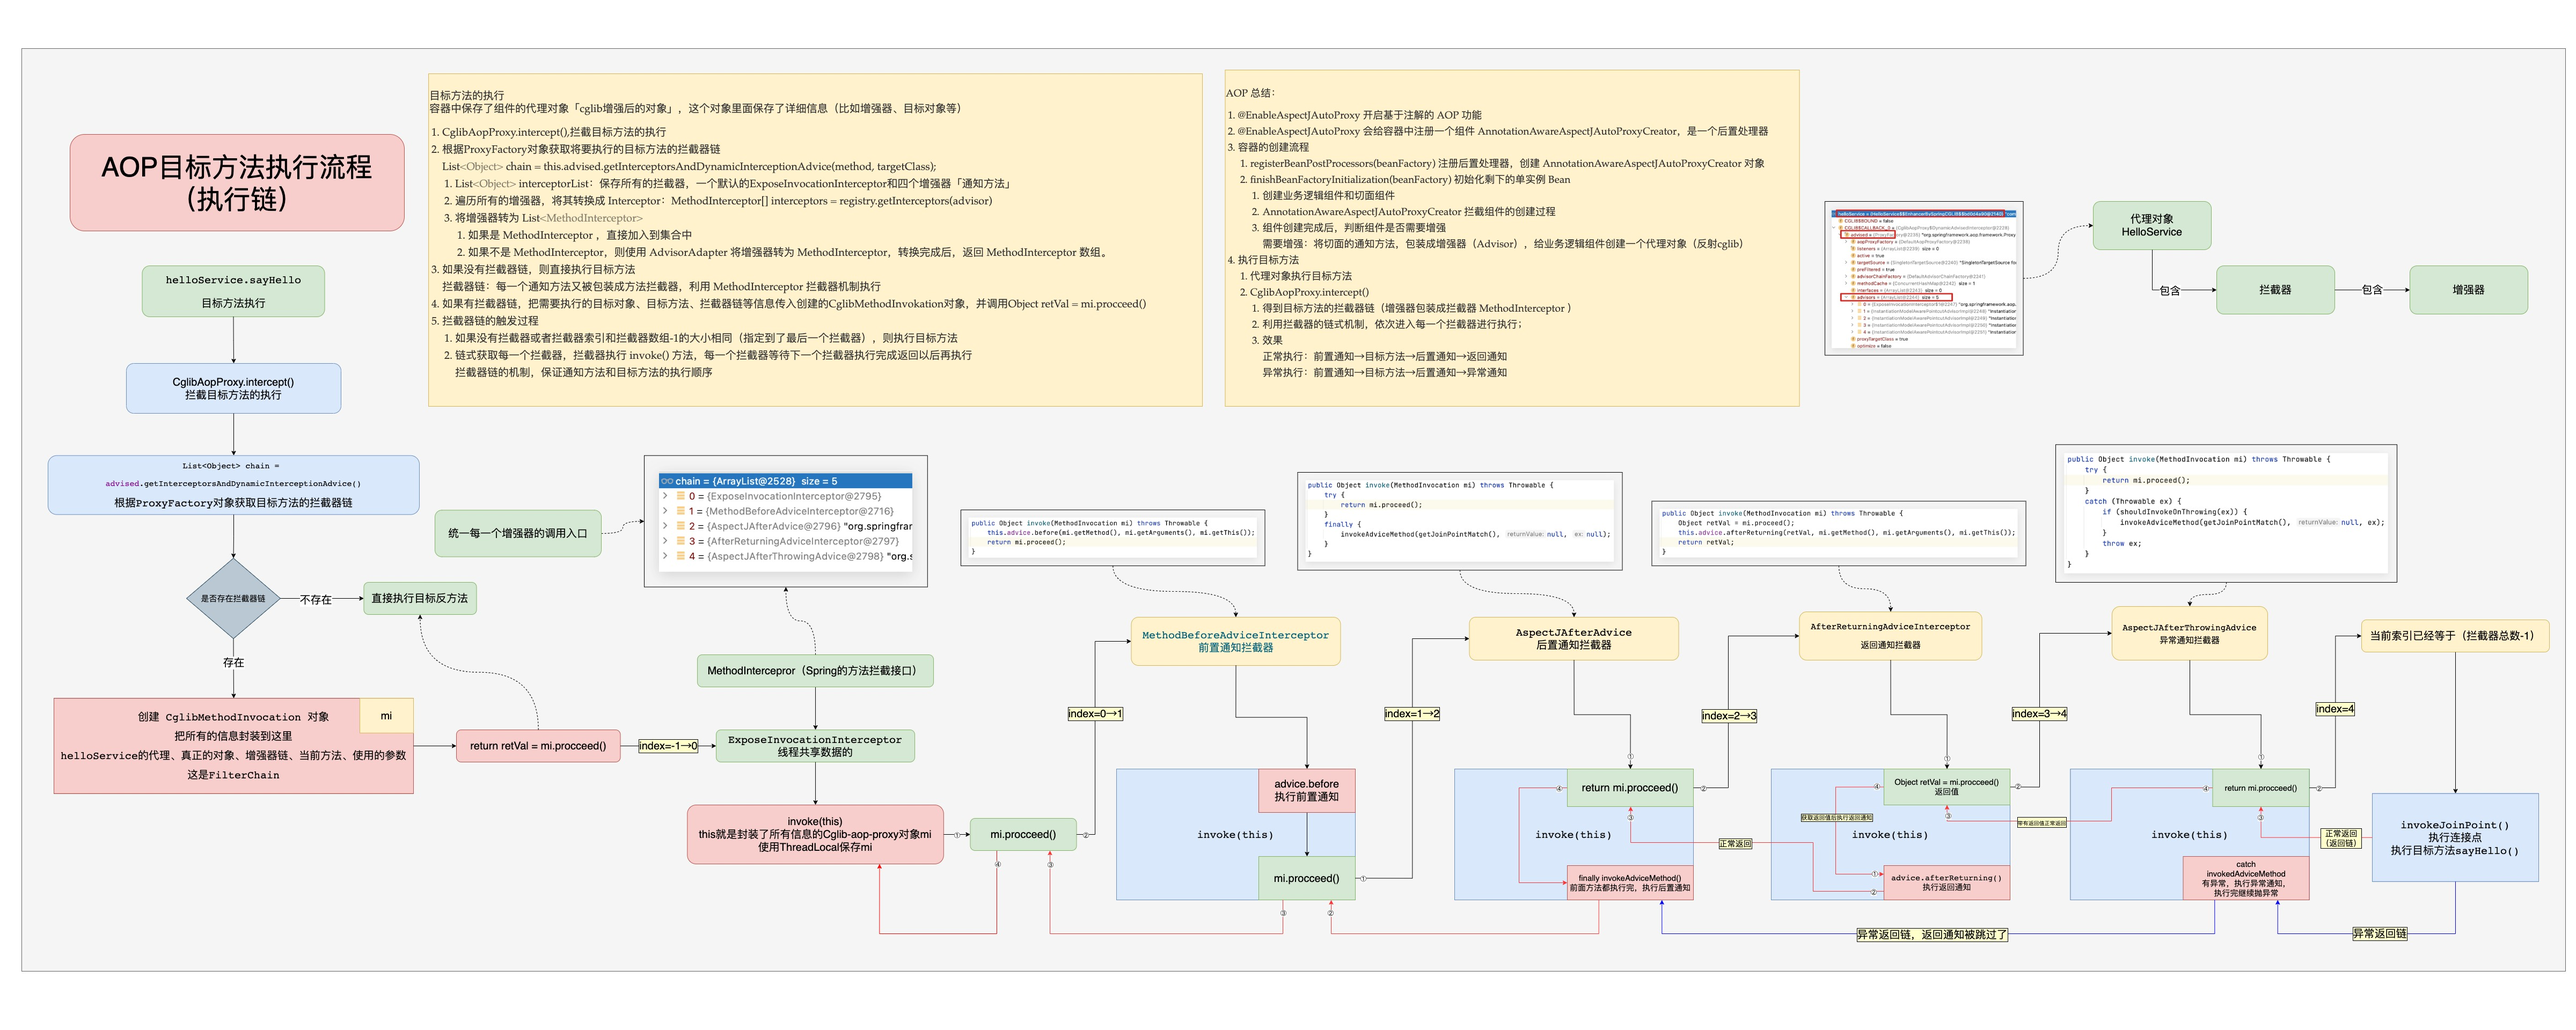
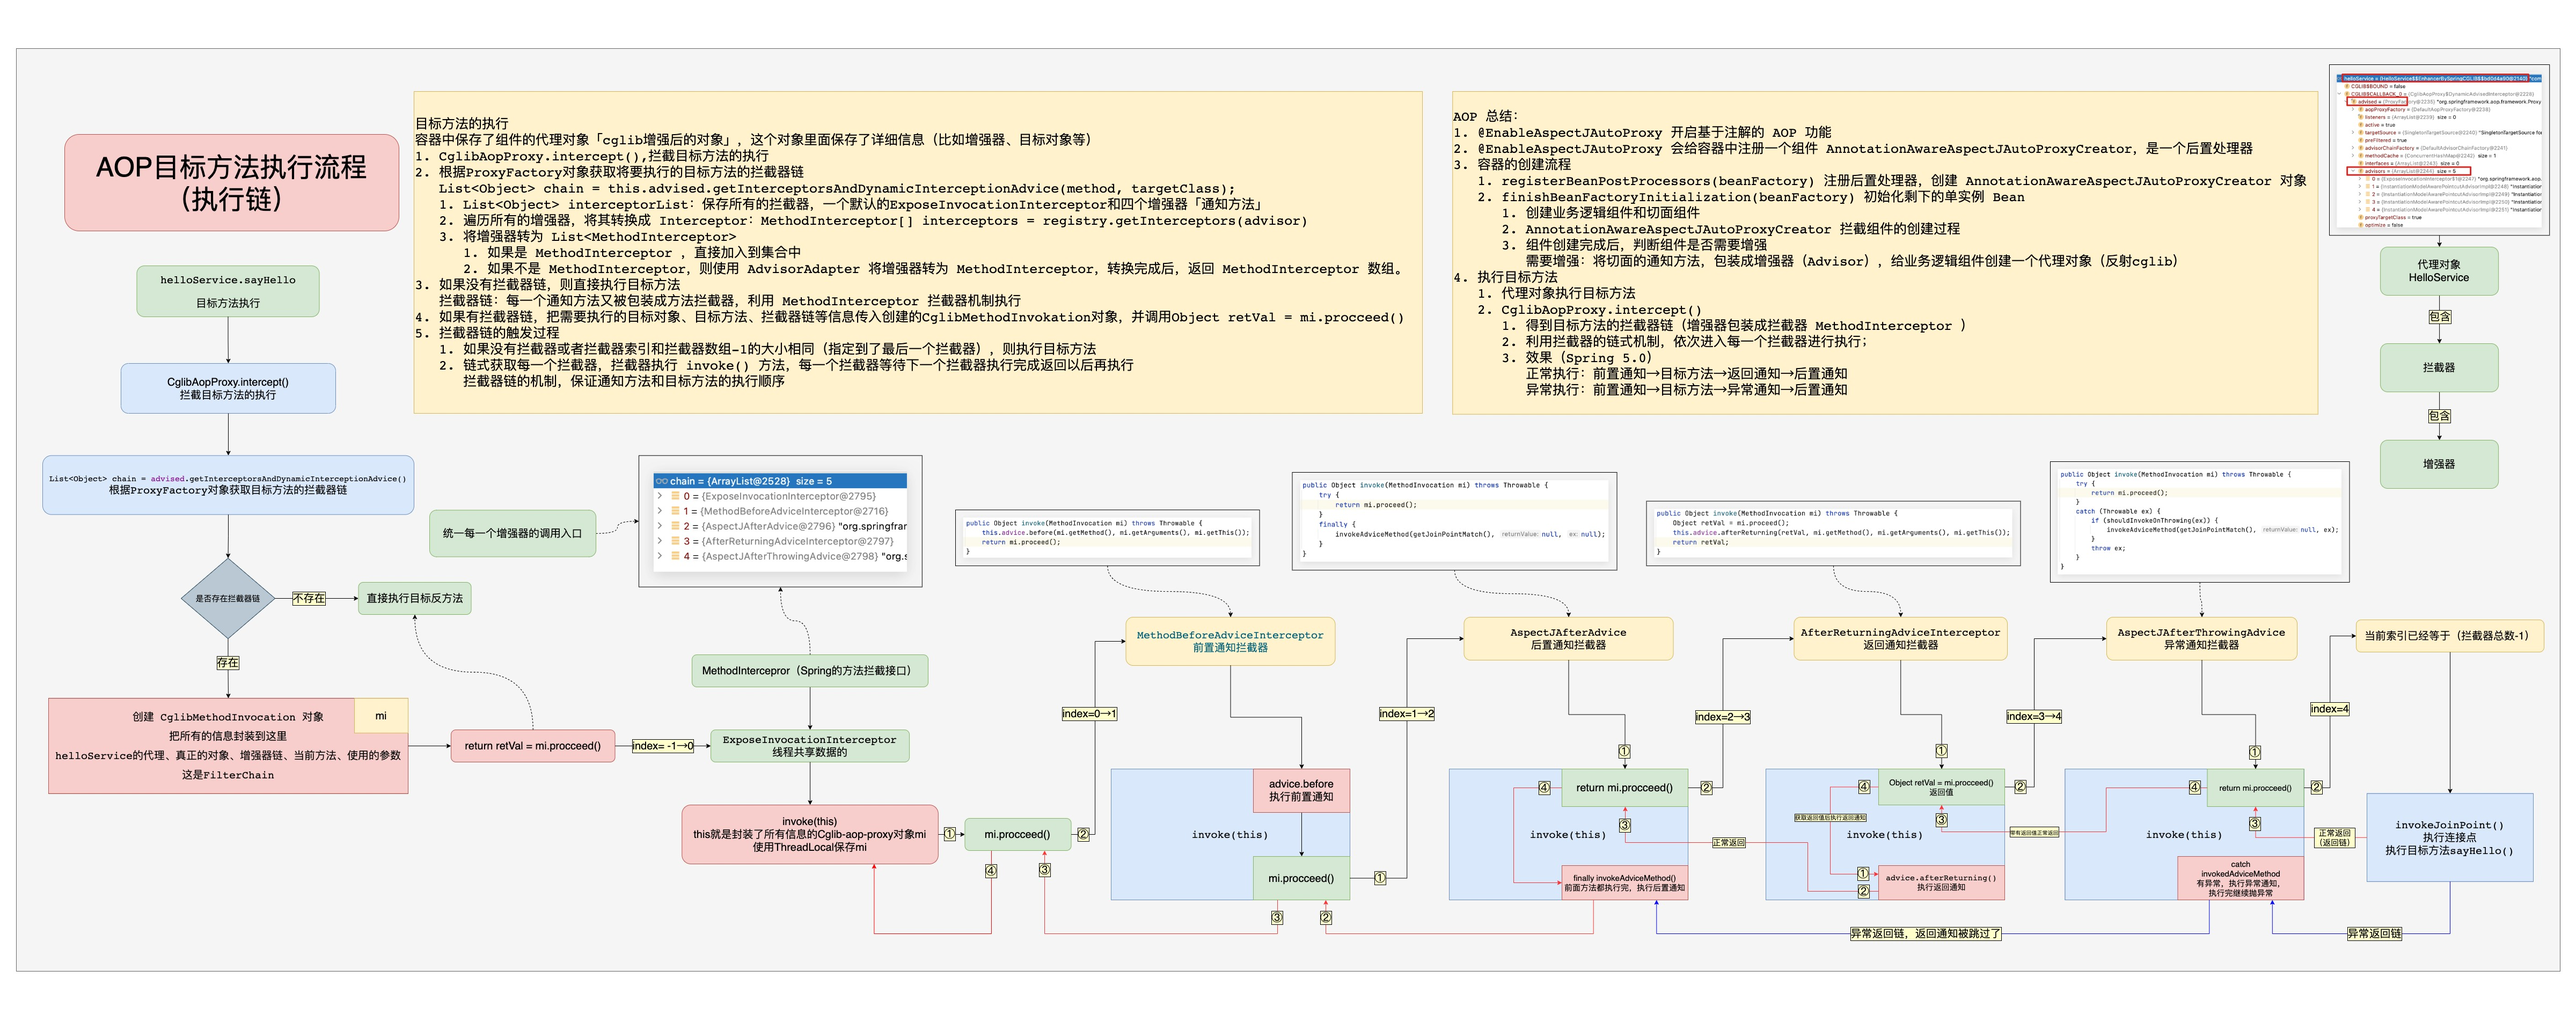
update

diff --git a/colin-source-test/src/main/java/com/colin/demo/AnnotationDemo.java b/colin-source-test/src/main/java/com/colin/demo/AnnotationDemo.java
@@ -9,6 +9,8 @@ import com.colin.config.MyConfig;
 import org.springframework.context.ApplicationContext;
 import org.springframework.context.annotation.AnnotationConfigApplicationContext;
 
+import java.util.ArrayList;
+
 /**
  * @author colin
  * @create 2021-03-17 11:34
@@ -16,18 +18,16 @@ import org.springframework.context.annotation.AnnotationConfigApplicationContext
 public class AnnotationDemo {
 
 	public static void main(String[] args) {
-
-		/*aspectTest();*/
+		aopTest();
 		/*testFactoryBean();*/
-		testCycle();
-
+		/*testCycle();*/
 	}
 
-	private static void aspectTest() {
+	private static void aopTest() {
 		ApplicationContext applicationContext = new AnnotationConfigApplicationContext(MyConfig.class);
 		HelloService helloService = applicationContext.getBean(HelloService.class);
 		// 代理对象执行目标方法
-		helloService.sayHello("小罗");
+		helloService.sayHello("colin");
 		System.out.println("==============");
 	}
 

diff --git a/colin-source-test/src/main/java/com/colin/aop/HelloService.java b/colin-source-test/src/main/java/com/colin/aop/HelloService.java
@@ -2,13 +2,15 @@ package com.colin.aop;
 
 import org.springframework.stereotype.Component;
 
+import java.util.ArrayList;
+
 /**
  * @author colin
  * @create 2021-03-23 16:51
  *
  * 切面存在的话就会返回代理对象
  */
-//@Component
+@Component
 public class HelloService {
 
 	public HelloService(){
@@ -21,7 +23,10 @@ public class HelloService {
 	public String sayHello(String name){
 		String result = "你好："+name;
 		System.out.println(result);
-		int length = name.length();
-		return result + "---" + length;
+
+		/*// 模拟异常
+		Object o1 = new ArrayList<>(10).get(11);*/
+
+		return "你好，返回通知";
 	}
 }

diff --git a/colin-source-test/src/main/java/com/colin/aop/LogAspect.java b/colin-source-test/src/main/java/com/colin/aop/LogAspect.java
@@ -10,6 +10,7 @@ import java.util.Arrays;
  * @author colin
  * @create 2021-03-23 16:48
  *
+ * spring 5.0
  * 正常执行顺序：前置通知-->目标方法-->返回通知-->后置通知
  * 异常执行顺序：前置通知-->目标方法-->异常通知-->后置通知
  *
@@ -26,8 +27,8 @@ import java.util.Arrays;
  * 「@Aspect」：表明为切面类
  * 切面类也要注册进容器中「@Component」
  */
-//@Component
-//@Aspect
+@Component
+@Aspect
 public class LogAspect {
 
 	public LogAspect() {

diff --git a/colin-source-test/src/main/java/com/colin/config/AopOpenConfig.java b/colin-source-test/src/main/java/com/colin/config/AopOpenConfig.java
@@ -9,7 +9,7 @@ import org.springframework.context.annotation.EnableAspectJAutoProxy;
  *
  * EnableAspectJAutoProxy ：开启基于注解的aop
  */
-/*@EnableAspectJAutoProxy
-@Configuration*/
+@EnableAspectJAutoProxy
+@Configuration
 public class AopOpenConfig {
 }

diff --git a/colin-source-test/src/main/java/com/colin/bean/Hello.java b/colin-source-test/src/main/java/com/colin/bean/Hello.java
@@ -6,6 +6,6 @@ import org.springframework.stereotype.Component;
  * @author colin
  * @create 2021-03-19 09:03
  */
-@Component
+//@Component
 public class Hello {
 }
